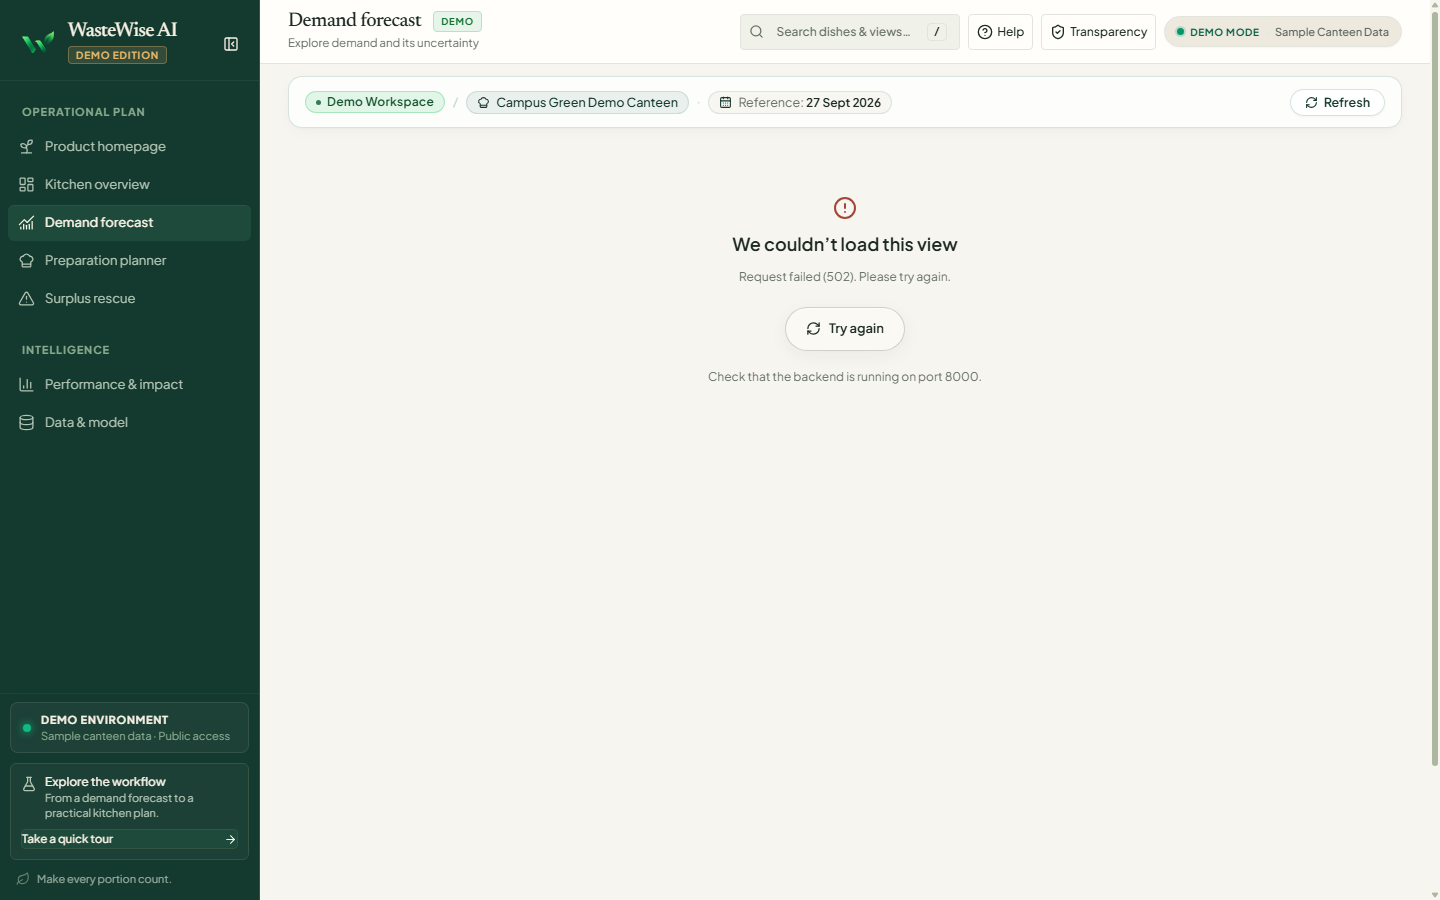
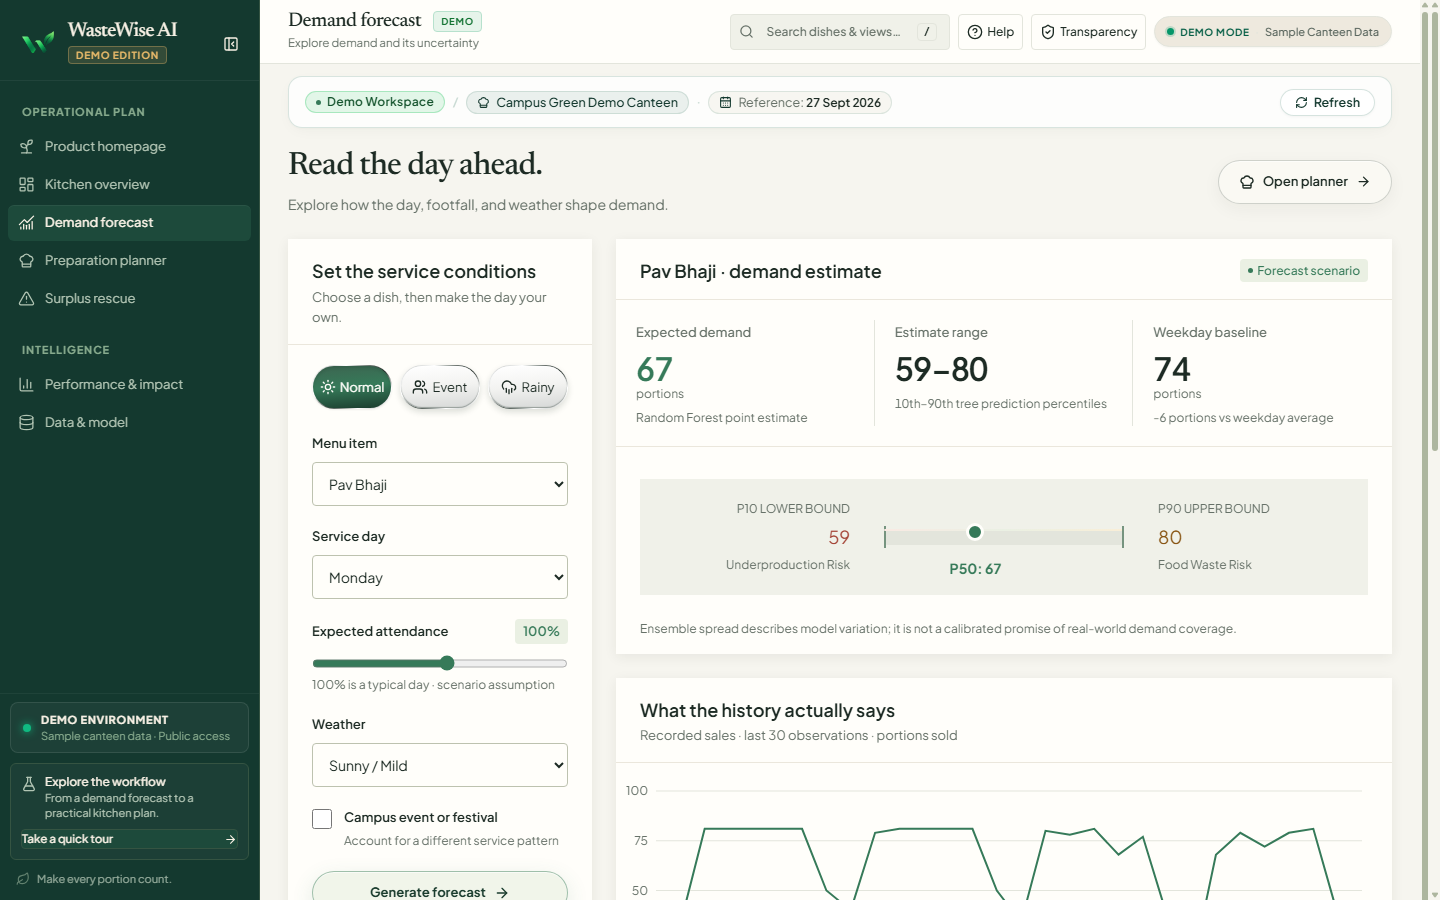
fix(screenshots): re-capture all views with live FastAPI backend and preview proxy, update API specs in README

diff --git a/frontend/vite.config.ts b/frontend/vite.config.ts
@@ -20,4 +20,13 @@ export default defineConfig({
       },
     },
   },
+  preview: {
+    port: 4173,
+    proxy: {
+      "/api": {
+        target: "http://127.0.0.1:8000",
+        changeOrigin: true,
+      },
+    },
+  },
 });

diff --git a/scripts/capture_showcase_screenshots.py b/scripts/capture_showcase_screenshots.py
@@ -16,6 +16,37 @@ os.makedirs(TARGET_DIR_DOCS, exist_ok=True)
 CHROME_PATH = r"C:\Program Files\Google\Chrome\Application\chrome.exe"
 USER_DATA = r"C:\Users\gmatr\AppData\Local\Temp\chrome_cdp_profile_showcase"
 
+async def wait_for_view_ready(ws, min_wait=2.5, max_wait=10.0):
+    await asyncio.sleep(min_wait)
+    start = time.time()
+    while time.time() - start < max_wait:
+        check_js = """
+        (() => {
+            const text = document.body.innerText;
+            const hasError = text.includes("We couldn't load this view") || text.includes("Failed to fetch") || text.includes("Cannot reach the WasteWise backend");
+            const isLoading = document.querySelector('.animate-spin') !== null;
+            return { hasError, isLoading, textLen: text.length };
+        })()
+        """
+        await ws.send(json.dumps({
+            "id": 50,
+            "method": "Runtime.evaluate",
+            "params": {"expression": check_js, "returnByValue": True}
+        }))
+        while True:
+            msg = await ws.recv()
+            data = json.loads(msg)
+            if data.get("id") == 50:
+                val = data.get("result", {}).get("result", {}).get("value", {})
+                if not val.get("hasError") and not val.get("isLoading"):
+                    print(f"  View content loaded cleanly ({val.get('textLen')} chars).")
+                    return True
+                if val.get("hasError"):
+                    print("  Warning: Detected error state in view, waiting for resolution...")
+                break
+        await asyncio.sleep(0.5)
+    return False
+
 async def capture_item(ws, file_name, width=1440, height=900, device_scale=1):
     # Set viewport
     await ws.send(json.dumps({
@@ -88,9 +119,8 @@ async def main():
                 "method": "Page.navigate",
                 "params": {"url": "http://localhost:4173/#home"}
             }))
-            await asyncio.sleep(2.5)
+            await wait_for_view_ready(ws)
             await capture_item(ws, "home-hero.png", 1440, 900)
-            # Also keep home-desktop.png aligned
             shutil.copyfile(os.path.join(TARGET_DIR_ASSETS, "home-hero.png"), os.path.join(TARGET_DIR_ASSETS, "home-desktop.png"))
             shutil.copyfile(os.path.join(TARGET_DIR_DOCS, "home-hero.png"), os.path.join(TARGET_DIR_DOCS, "home-desktop.png"))
 
@@ -101,7 +131,7 @@ async def main():
                 "method": "Page.navigate",
                 "params": {"url": "http://localhost:4173/#overview"}
             }))
-            await asyncio.sleep(2.5)
+            await wait_for_view_ready(ws)
             await capture_item(ws, "kitchen-overview.png", 1440, 900)
 
             # 3. Demand Forecast
@@ -111,7 +141,7 @@ async def main():
                 "method": "Page.navigate",
                 "params": {"url": "http://localhost:4173/#demand-forecast"}
             }))
-            await asyncio.sleep(2.5)
+            await wait_for_view_ready(ws)
             await capture_item(ws, "demand-forecast.png", 1440, 900)
 
             # 4. Preparation Planner
@@ -121,7 +151,7 @@ async def main():
                 "method": "Page.navigate",
                 "params": {"url": "http://localhost:4173/#prep-planner"}
             }))
-            await asyncio.sleep(2.5)
+            await wait_for_view_ready(ws)
             await capture_item(ws, "preparation-planner.png", 1440, 900)
 
             # 5. Surplus Rescue
@@ -131,7 +161,7 @@ async def main():
                 "method": "Page.navigate",
                 "params": {"url": "http://localhost:4173/#waste-risk"}
             }))
-            await asyncio.sleep(2.5)
+            await wait_for_view_ready(ws)
             await capture_item(ws, "surplus-rescue.png", 1440, 900)
 
             # 6. Performance Impact
@@ -141,7 +171,7 @@ async def main():
                 "method": "Page.navigate",
                 "params": {"url": "http://localhost:4173/#performance"}
             }))
-            await asyncio.sleep(2.5)
+            await wait_for_view_ready(ws)
             await capture_item(ws, "performance-impact.png", 1440, 900)
 
             # 7. Data Model
@@ -151,7 +181,7 @@ async def main():
                 "method": "Page.navigate",
                 "params": {"url": "http://localhost:4173/#data-model"}
             }))
-            await asyncio.sleep(2.5)
+            await wait_for_view_ready(ws)
             await capture_item(ws, "data-model.png", 1440, 900)
 
             # 8. Bento Grid (scrolled view on home)
@@ -161,17 +191,16 @@ async def main():
                 "method": "Page.navigate",
                 "params": {"url": "http://localhost:4173/#home"}
             }))
-            await asyncio.sleep(2.0)
-            # Scroll down to the bento grid section
+            await wait_for_view_ready(ws)
             scroll_script = """
             (() => {
-                const bento = document.querySelector('.grid.grid-cols-1.md\\\\:grid-cols-3') || document.querySelector('section:nth-of-type(3)') || document.querySelector('#bento-grid');
+                const bento = document.querySelector('.bento-grid-botanical') || document.querySelector('.bento-grid-container');
                 if (bento) {
-                    bento.scrollIntoView({ behavior: 'instant', block: 'center' });
+                    bento.scrollIntoView({ behavior: 'instant', block: 'start' });
                     return "scrolled to bento";
                 }
-                window.scrollTo(0, 1100);
-                return "scrolled 1100px";
+                window.scrollTo(0, 1900);
+                return "scrolled 1900px";
             })()
             """
             await ws.send(json.dumps({
@@ -180,7 +209,7 @@ async def main():
                 "params": {"expression": scroll_script}
             }))
             await ws.recv()
-            await asyncio.sleep(1.0)
+            await asyncio.sleep(1.2)
             await capture_item(ws, "canteen-bento.png", 1440, 900)
 
             # 9. Quick Search Modal (open full width search dialog)
@@ -188,7 +217,6 @@ async def main():
             open_search_script = """
             (() => {
                 window.scrollTo(0, 0);
-                // Trigger search dialog open button or dispatch keydown
                 const searchBtn = Array.from(document.querySelectorAll('button')).find(b => b.textContent.includes('Search') || b.querySelector('svg.lucide-search'));
                 if (searchBtn) {
                     searchBtn.click();
@@ -214,12 +242,12 @@ async def main():
                 "method": "Page.navigate",
                 "params": {"url": "http://localhost:4173/#home"}
             }))
-            await asyncio.sleep(2.0)
+            await wait_for_view_ready(ws)
             await capture_item(ws, "mobile-home.png", 390, 844)
             shutil.copyfile(os.path.join(TARGET_DIR_ASSETS, "mobile-home.png"), os.path.join(TARGET_DIR_ASSETS, "home-mobile.png"))
             shutil.copyfile(os.path.join(TARGET_DIR_DOCS, "mobile-home.png"), os.path.join(TARGET_DIR_DOCS, "home-mobile.png"))
 
-            print("All screenshots successfully captured!")
+            print("All screenshots successfully captured with real live backend data!")
 
     finally:
         proc.terminate()

diff --git a/README.md b/README.md
@@ -509,14 +509,15 @@ The backend exposes typed, versioned REST endpoints documented via OpenAPI 3.1:
 
 | Method | Endpoint | Description | Public Demo Auth | Response Model |
 | :--- | :--- | :--- | :--- | :--- |
-| `GET` | `/api/v1/health` | Service health, model status, and DB readiness | None | `HealthStatusResponse` |
-| `GET` | `/api/v1/overview` | Active canteen KPIs: demand, prep, surplus risk, cost-at-risk | `DEFAULT_ORG_ID` | `KitchenOverviewResponse` |
-| `GET` | `/api/v1/forecast/dishes` | List of catalog dishes available for demand forecasting | `DEFAULT_ORG_ID` | `List[DishItem]` |
-| `POST` | `/api/v1/forecast/predict` | Quantile prediction with weather, event, and calendar features | `DEFAULT_ORG_ID` | `ForecastPredictionResponse` |
-| `POST` | `/api/v1/plan/optimize` | Newsvendor preparation plan with staggered batches & refill triggers | `DEFAULT_ORG_ID` | `PreparationPlanResponse` |
-| `GET` | `/api/v1/rescue/queue` | Prioritized surplus triage queue with financial exposure | `DEFAULT_ORG_ID` | `SurplusRescueQueueResponse` |
-| `POST` | `/api/v1/outcomes/reconcile` | Persist physical shift outcome (cooked, sold, leftovers, waste reason) | `DEFAULT_ORG_ID` | `ShiftOutcomeResponse` |
-| `POST` | `/api/v1/data/upload` | Upload historical CSV sales records for dynamic model retraining | `DEFAULT_ORG_ID` | `DatasetUploadResponse` |
+| `GET` | `/api/health` | Service health, model status, and DB readiness | None | `HealthResponse` |
+| `GET` | `/api/overview` | Active canteen KPIs: demand, prep, surplus risk, cost-at-risk | `DEFAULT_ORG_ID` | `OverviewResponse` |
+| `POST` | `/api/forecast` | Quantile prediction with weather, event, and calendar features | `DEFAULT_ORG_ID` | `ForecastResponse` |
+| `POST` | `/api/plan` | Newsvendor preparation plan with staggered batches & refill triggers | `DEFAULT_ORG_ID` | `PlanResponse` |
+| `GET` | `/api/waste-risk` | Prioritized surplus triage queue with financial exposure | `DEFAULT_ORG_ID` | `WasteRiskResponse` |
+| `GET` | `/api/performance` | Retrospective holdout model evaluation & benchmark metrics | `DEFAULT_ORG_ID` | `PerformanceResponse` |
+| `POST` | `/api/outcomes` | Persist physical shift outcome (cooked, sold, leftovers, waste reason) | `DEFAULT_ORG_ID` | `ActualOutcomeItem` |
+| `GET` | `/api/data` | Active dataset metadata, provenance, and coverage window | `DEFAULT_ORG_ID` | `DataInfoResponse` |
+| `POST` | `/api/data/upload` | Upload historical CSV sales records for dynamic model retraining | `DEFAULT_ORG_ID` | `DatasetUploadResponse` |
 
 ---
 
